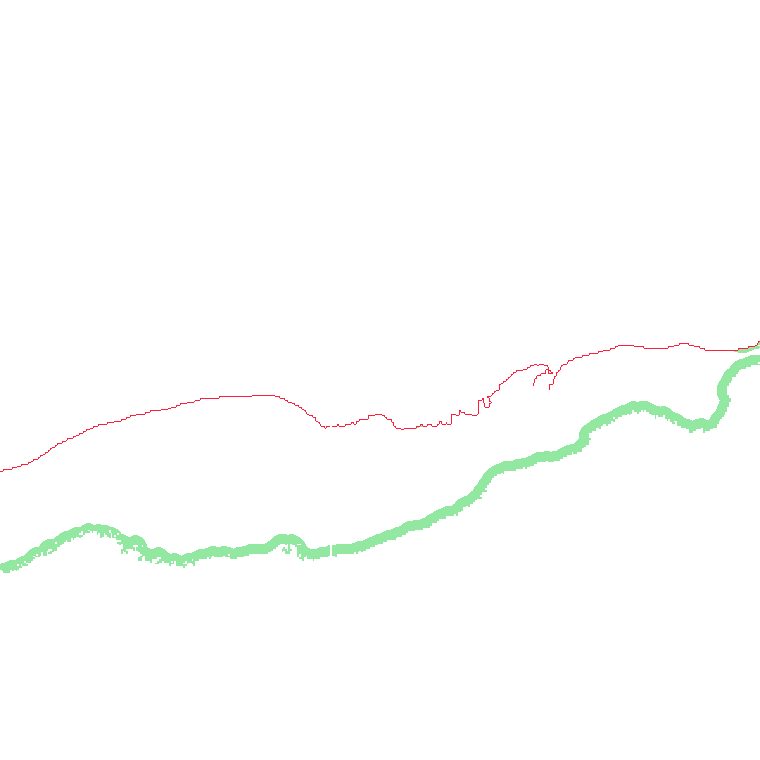
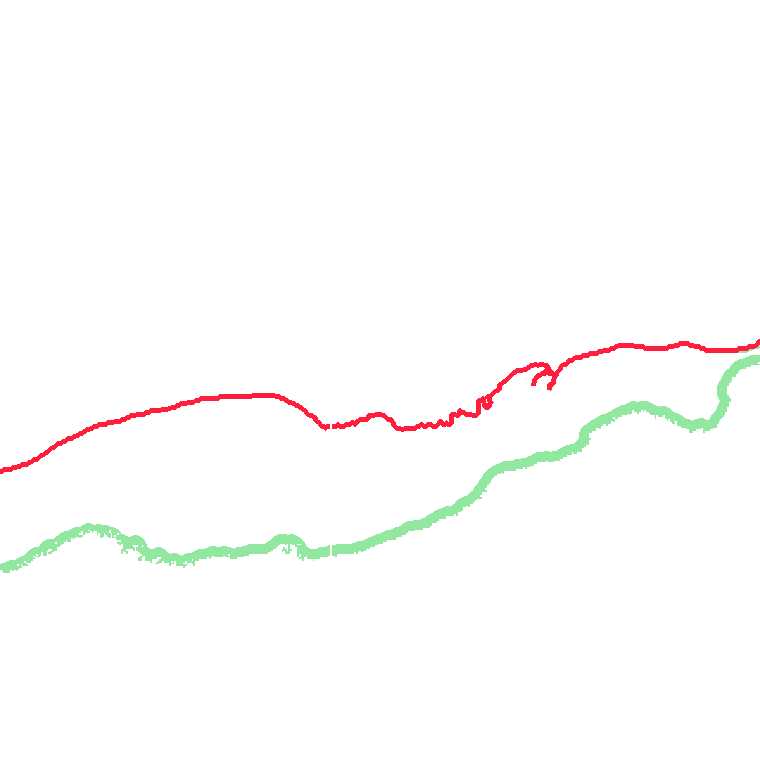
Coast build: fall back to latest posted t12z cycle
The daily Action (and any off-hours push) could fire before today's t12z LSOFS
cycle reaches NODD, crashing the build with FileNotFoundError on the nowcast file
(this is why run #5 failed and the refined overlays never deployed). _resolve_issue
walks back up to 3 days to the most recent posted cycle; a slightly older cycle's
forecast hours still cover the days ahead. web/data rebuilt with the refined
overlays (mainland-only shore, seam removal, continuous line).

Claude-Session: https://claude.ai/code/session_0147ZbsWJaurVNbKbmtLAssD

diff --git a/scripts/build_coast_site.py b/scripts/build_coast_site.py
@@ -21,7 +21,7 @@ import io
 import json
 import math
 import sys
-from datetime import date, datetime, timezone
+from datetime import date, datetime, timedelta, timezone
 from pathlib import Path
 
 import numpy as np
@@ -73,6 +73,27 @@ def _png(rgba) -> bytes:
     buf = io.BytesIO()
     mpimg.imsave(buf, rgba, format="png")
     return buf.getvalue()
+
+
+def _resolve_issue(cfg, issue, max_back=3):
+    """Most recent issue day whose t12z nowcast is actually posted.
+
+    The daily Action can fire before today's t12z cycle reaches NODD (or on a slow
+    posting day); rather than crash, walk back to the latest available cycle. The
+    forecast hours of a slightly older cycle still cover the days ahead.
+    """
+    for k in range(max_back + 1):
+        d = issue - timedelta(days=k)
+        try:
+            ds = _open_first(candidate_urls(LsofsFile(d, "t12z", "n", 6),
+                             cfg.lsofs.recent_bucket, cfg.lsofs.archive_bucket, byterange=False))
+            ds.close()
+            if k:
+                print(f"issue {issue} t12z not posted yet; using {d}")
+            return d
+        except Exception:  # noqa: BLE001
+            continue
+    return issue  # nothing found — let the downstream open fail loudly
 
 
 def _node_columns_in_box(cfg, issue, clat, clon):
@@ -131,6 +152,7 @@ def main(argv) -> int:
     else:
         issue = datetime.now(timezone.utc).date()
     cfg = load_config()
+    issue = _resolve_issue(cfg, issue)     # fall back if today's t12z isn't posted yet
     OUT.mkdir(parents=True, exist_ok=True)
     (OUT / "overlays").mkdir(exist_ok=True)
 
